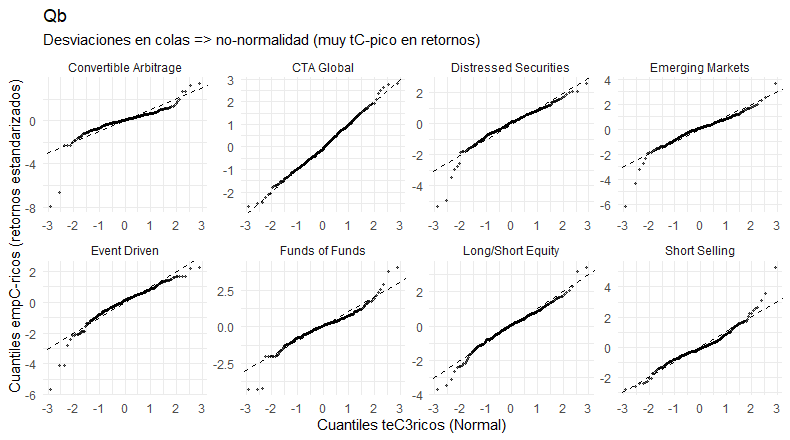
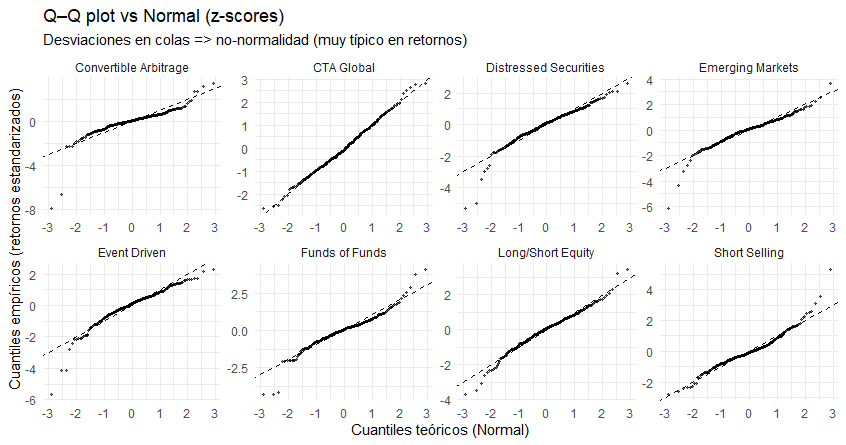
Act.18.02.2026_1

diff --git a/2_EDA/Clase_2.html b/2_EDA/Clase_2.html
@@ -3762,18 +3762,25 @@ library(moments)
 
 set.seed(123)
 
-# 1) Cargar datos --------------------------------------------
+# 1) Cargar datos -----------------------------------------------------------
+# Traigo el dataset EDHEC (retornos mensuales) y lo dejo como xts:
+# fecha = índice, estrategias = columnas. Esto es la base para todo el EDA.
 data(edhec, package = "PerformanceAnalytics")
 R_xts &lt;- edhec
 
-# 1) Wide limpio (data.frame) + nombres correctos
+
+# 2.1) Wide limpio (data.frame) + nombres correctos -------------------------
+# Paso de xts a data.frame “clásico”: creo la columna date y pego los retornos
+# como columnas. Con check.names=FALSE evito que R modifique nombres de estrategias.
 R_wide &lt;- data.frame(
   date = as.Date(index(R_xts)),
   coredata(R_xts),
   check.names = FALSE
 )
 
-# 2) Long limpio (ret numérico)
+# 2.2) Long limpio (ret numérico) -------------------------------------------
+# Transformo a formato largo: una fila por (fecha, estrategia) con ret numérico.
+# Esto facilita summarise/ggplot y evita problemas con valores no finitos.
 R_tbl &lt;- R_wide %&gt;%
   pivot_longer(-date, names_to = "strategy", values_to = "ret") %&gt;%
   mutate(
@@ -3782,7 +3789,9 @@ R_tbl &lt;- R_wide %&gt;%
   ) %&gt;%
   filter(is.finite(ret))
 
-# 3) Top N estrategias por volatilidad (sd)
+# 2.3) Top N estrategias por volatilidad (sd) -------------------------------
+# Calculo sd por estrategia y selecciono las topN más volátiles.
+# Así reduzco ruido visual y me enfoco en las que “más se mueven”.
 topN &lt;- 8
 top_strat &lt;- R_tbl %&gt;%
   group_by(strategy) %&gt;%
@@ -3793,7 +3802,10 @@ top_strat &lt;- R_tbl %&gt;%
 
 R_top &lt;- R_tbl %&gt;% filter(strategy %in% top_strat)
 
-# 3) KPIs básicos + colas (pero serios) ----------------------
+
+# 3) KPIs básicos + colas ---------------------------------------------------
+# Tabla resumen por estrategia: tamaño muestral, tendencia central, volatilidad,
+# asimetría/curtosis y percentiles clave (colas). Ordeno por p05 (downside).
 kpi_tbl &lt;- R_tbl %&gt;%
   group_by(strategy) %&gt;%
   summarise(
@@ -3816,9 +3828,14 @@ kpi_tbl &lt;- R_tbl %&gt;%
 
 kpi_tbl
 
-# 4) Distribución / colas / no-normalidad --------------------
-# 4.1 Ridgelines (densidades apiladas) para comparar estrategias
 
+# 4) Distribución / colas / no-normalidad -----------------------------------
+# Bloque para “ver” forma de retornos: dispersión, colas, outliers y qué tan
+# lejos está la data de una normalidad ideal (muy típico en finanzas).
+
+# 4.1 Ridgelines (densidades apiladas) --------------------------------------
+# Ordeno estrategias por volatilidad y comparo densidades apiladas.
+# Útil para ver asimetría y colas (especialmente a la izquierda).
 ord &lt;- R_top %&gt;%
   group_by(strategy) %&gt;%
   summarise(sd_ret = sd(ret), .groups = "drop") %&gt;%
@@ -3841,12 +3858,13 @@ p_ridge &lt;- ggplot(R_top2, aes(x = ret, y = strategy_ord, fill = strategy_ord)
 
 p_ridge
 
-# 4.2 Raincloud (halfeye + box + puntos) — EDA de alta calidad
+
+# 4.2 Raincloud (halfeye + box + puntos) ------------------------------------
+# “Todo en uno”: forma (halfeye), resumen robusto (boxplot) y nube de puntos.
+# Muy útil para comparar mediana, dispersión y outliers sin asumir normalidad.
 p_rain &lt;- R_top %&gt;%
   ggplot(aes(x = fct_reorder(strategy, ret, .fun = median), y = ret)) +
-  ggdist::stat_halfeye(
-    adjust = 0.7, width = 0.6, .width = c(0.5, 0.8, 0.95)
-  ) +
+  ggdist::stat_halfeye(adjust = 0.7, width = 0.6, .width = c(0.5, 0.8, 0.95)) +
   geom_boxplot(width = 0.15, outlier.alpha = 0.35) +
   geom_point(alpha = 0.15, position = position_jitter(width = 0.1), size = 0.8) +
   coord_flip() +
@@ -3858,7 +3876,10 @@ p_rain &lt;- R_top %&gt;%
   ) +
   scale_y_continuous(labels = percent_format(accuracy = 1))
 
-# 4.3 ECDF (cola izquierda enfocada)
+
+# 4.3 ECDF (cola izquierda enfocada) ----------------------------------------
+# CDF empírica para leer probabilidades directas: P(Retorno ≤ x).
+# Muy buena para comparar downside risk entre estrategias.
 p_ecdf &lt;- R_top %&gt;%
   ggplot(aes(x = ret, color = strategy)) +
   stat_ecdf(size = 0.9, alpha = 0.9) +
@@ -3871,8 +3892,10 @@ p_ecdf &lt;- R_top %&gt;%
   scale_x_continuous(labels = percent_format(accuracy = 1)) +
   guides(color = guide_legend(ncol = 2))
 
-# 4.4 Q-Q plot vs Normal (por estrategia) para mostrar no-normalidad
-# Nota: muchas facetas pueden saturar; usa top 6-8
+
+# 4.4 Q-Q plot vs Normal -----------------------------------------------------
+# Comparo cuantiles empíricos vs cuantiles normales (en z-scores).
+# Si se despega en colas, queda evidente la no-normalidad (colas gordas/asimetría).
 qq_data &lt;- R_top %&gt;%
   group_by(strategy) %&gt;%
   mutate(
@@ -3902,13 +3925,24 @@ print(p_rain)
 print(p_ecdf)
 print(p_qq)
 
-# 5) Outliers y eventos extremos -----------------------------
-# 5.1 Outliers robustos por estrategia usando MAD (más financiero que z-score)
+
+
+# 5) Outliers y eventos extremos --------------------------------------------
+# Aquí me enfoco en extremos: qué tan frecuentes son los eventos raros
+# y qué tan malos han sido (tail risk / event risk).
+
+# 5.1 Outliers robustos por estrategia usando MAD ---------------------------
+# MAD = Median Absolute Deviation (Desviación Absoluta Mediana).
+# Se calcula como: MAD = mediana(|ret - mediana(ret)|). Es una medida de dispersión
+# ROBUSTA: no se deja sesgar por outliers como sí pasa con la desviación estándar.
+# Aquí estimo un “z-score robusto”: robust_z = (ret - mediana)/MAD, y marco como
+# outlier los puntos con |robust_z| &gt; 5. Luego resumo cuántos outliers hay, su tasa,
+# y dos referencias de cola: el peor retorno (min) y el percentil 5% (worst_5).
 out_tbl &lt;- R_tbl %&gt;%
   group_by(strategy) %&gt;%
   mutate(
     med = median(ret),
-    mad = mad(ret, constant = 1),  # constante 1 para escala tipo MAD cruda
+    mad = mad(ret, constant = 1),  # constante=1: MAD “cruda”
     robust_z = (ret - med) / (mad + 1e-12),
     outlier_mad = abs(robust_z) &gt; 5
   ) %&gt;%
@@ -3923,7 +3957,8 @@ out_tbl &lt;- R_tbl %&gt;%
 
 print(out_tbl)
 
-# 5.2 Peores 10 retornos por estrategia (evento-riesgo)
+# 5.2 Peores 10 retornos por estrategia -------------------------------------
+# Saco los 10 meses más malos por estrategia para visualizar event risk.
 worst10 &lt;- R_tbl %&gt;%
   group_by(strategy) %&gt;%
   slice_min(ret, n = 10, with_ties = FALSE) %&gt;%
@@ -3942,10 +3977,18 @@ p_worst &lt;- worst10 %&gt;%
 
 print(p_worst)
 
-# 6) Dinámica temporal: vol rolling, VaR/ES rolling, drawdowns -
-# Pasar a xts para rolling fácil
-# Elegimos 3 estrategias para series temporales (ajusta si quieres)
-# 6.1 Volatilidad rolling (12 meses)
+
+
+# 6) Dinámica temporal: vol rolling, drawdowns ------------------------------
+# Ahora sí miro el tiempo: volatilidad en ventanas móviles, crisis vs calma,
+# y drawdowns (caídas máximas) como lectura clásica financiera.
+
+# 6.1 Volatilidad rolling (12 meses) ----------------------------------------
+# Selecciono 3 estrategias (fijas) para que el gráfico sea reproducible.
+# Calculo SD móvil de 12 meses para ver cambios de régimen y clustering.
+R_pick &lt;- R_xts[, c("Convertible Arbitrage", "Equity Market Neutral", "Merger Arbitrage")]
+R_pick &lt;- R_pick[complete.cases(R_pick), ]
+
 roll_sd &lt;- zoo::rollapply(R_pick, width = 12, FUN = sd, align = "right", fill = NA)
 
 roll_sd_wide &lt;- data.frame(
@@ -3973,18 +4016,21 @@ p_roll_sd &lt;- ggplot(roll_sd_tbl, aes(x = date, y = roll_sd, color = strategy)
 p_roll_sd
 
 
-# 6.3 Drawdowns (EDA financiero clásico)
-# PerformanceAnalytics trae chart.Drawdown y findDrawdowns
-# (en script no guardamos el gráfico ggplot, pero lo mostramos)
+# 6.2 Drawdowns (EDA financiero clásico) ------------------------------------
+# Panel rápido: rendimiento acumulado, drawdowns y riesgo (muy estándar en finanzas).
 par(mfrow = c(1,1))
 charts.PerformanceSummary(R_pick, main = "Performance Summary (retorno, drawdown, riesgo)")
 
-# 7) Dependencia: Pearson/Spearman + cola ---------------------
-# 7.1 Matrices de correlación (Pearson)
+
+
+# 7) Dependencia: correlación ------------------------------------------------
+# Co-movimiento entre estrategias. Primera lectura de diversificación:
+# quién se mueve con quién (linealmente).
+
+# 7.1 Matriz de correlación (Pearson) ---------------------------------------
 cor_p &lt;- cor(R_xts, use = "pairwise.complete.obs", method = "pearson")
 
-
-# Convertir a tidy para heatmap con ggplot
+# Paso a formato tidy para dibujar heatmap en ggplot
 cor_to_tbl &lt;- function(M, name = "pearson"){
   as.data.frame(M) %&gt;%
     rownames_to_column("A") %&gt;%
@@ -4005,7 +4051,7 @@ p_cor &lt;- cor_tbl %&gt;%
   theme(axis.text.x = element_text(angle = 45, hjust = 1)) +
   labs(
     title = "Correlación: Pearson",
-    subtitle = "Pearson captura linealidad",
+    subtitle = "Pearson captura dependencia lineal",
     x = NULL, y = NULL
   )
 
@@ -4013,8 +4059,10 @@ print(p_cor)
 
 
 
-# 8) Bootstrap para KPIs + incertidumbre ----------------------
-# KPI ejemplo: media (retorno) y p5 (downside) por estrategia
+# 8) Bootstrap para KPIs + incertidumbre ------------------------------------
+# No me quedo solo con el punto estimado: saco IC bootstrap para KPIs.
+# Ejemplos: media (retorno) y p05 (downside) por estrategia.
+
 boot_ci &lt;- function(x, stat = mean, B = 3000, alpha = 0.05){
   x &lt;- x[is.finite(x)]
   boots &lt;- replicate(B, stat(sample(x, replace = TRUE)))
@@ -4034,7 +4082,8 @@ ci_kpi &lt;- R_tbl %&gt;%
   ) %&gt;%
   arrange(mean)
 
-# 8.1 Error bars (retorno promedio con IC)
+# 8.1 Error bars: media con IC ----------------------------------------------
+# Comparo retorno promedio con incertidumbre (IC 95%).
 p_ci_mean &lt;- ci_kpi %&gt;%
   ggplot(aes(x = reorder(strategy, mean), y = mean)) +
   geom_point(size = 2) +
@@ -4043,12 +4092,13 @@ p_ci_mean &lt;- ci_kpi %&gt;%
   theme_minimal(base_size = 12) +
   labs(
     title = "KPI con incertidumbre: retorno promedio (IC bootstrap 95%)",
-    subtitle = "Decisión informada: no solo el punto, sino la precisión del KPI",
+    subtitle = "No solo el punto: también importa la precisión del KPI",
     x = NULL, y = "Retorno promedio"
   ) +
   scale_y_continuous(labels = percent_format(accuracy = 1))
 
-# 8.2 Error bars (p5 con IC) — cola izquierda
+# 8.2 Error bars: p05 con IC -------------------------------------------------
+# Mismo enfoque, pero ahora para riesgo de cola (percentil 5%).
 p_ci_p05 &lt;- ci_kpi %&gt;%
   ggplot(aes(x = reorder(strategy, p05), y = p05)) +
   geom_point(size = 2) +
@@ -4065,9 +4115,11 @@ p_ci_p05 &lt;- ci_kpi %&gt;%
 print(p_ci_mean)
 print(p_ci_p05)
 
-# 9) Panel final (composición pro) ----------------------------
-# Un “dashboard” estático para escoger qué se vuelve slides
 
+
+# 9) Panel final (composición pro) ------------------------------------------
+# Armo un “dashboard” estático con 4 gráficos clave para llevar a slides
+# o para una lectura rápida sin mil ventanas abiertas.
 library(cowplot)
 
 cowplot::plot_grid(
